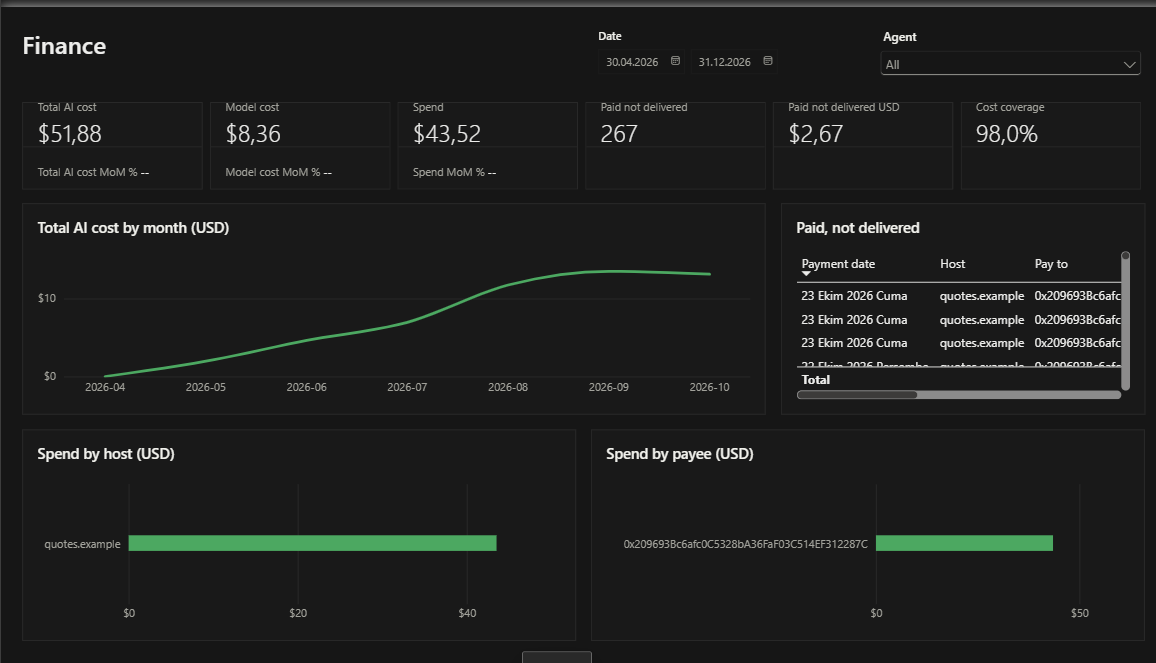
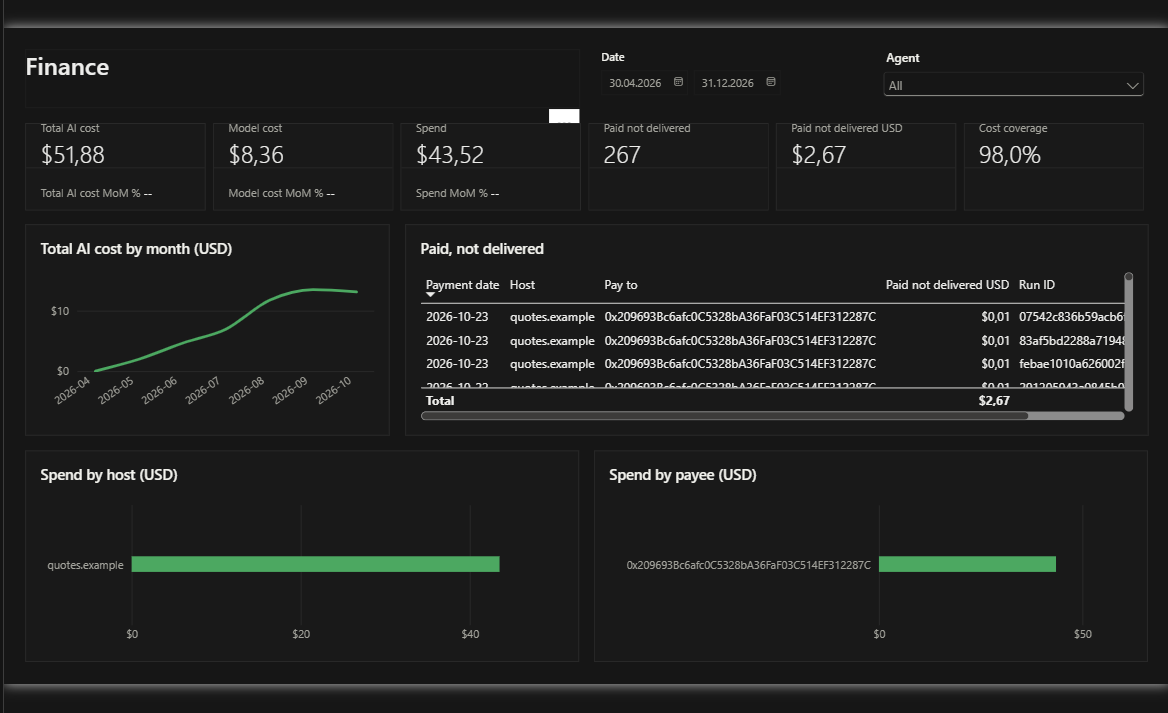
fix(bi): fit the agent incidents chart and tick proven criteria

diff --git a/bi/kpis.md b/bi/kpis.md
@@ -52,9 +52,9 @@ As anyone, I want the headline KPIs with their change from last month on one pag
 
 - **Page:** Overview. **KPIs:** K01, K02, K03, K05, K07, K09, K04, K23 to K27.
 - [x] Six cards show Run count, Model cost, Cost per run, Spend, Block rate and Incident rate.
-- [ ] With the date filter inside one month, each card shows its change from the same days one month earlier: in percent for counts and money, in percentage points for rates.
+- [x] With the date filter inside one month, each card shows its change from the same days one month earlier: in percent for counts and money, in percentage points for rates.
 - [x] With a date filter longer than a month, the change is blank, not a misleading number.
-- [ ] Run count and Model cost for a month equal that month's row in the "By month" DAX query.
+- [x] Run count and Model cost for a month equal that month's row in the "By month" DAX query.
 
 ### SEC-1. Guard rules ready to block
 
@@ -74,7 +74,7 @@ As a security lead, I want incidents by category, entry origin and entry agent o
 - [x] Incident count by category, where incidents without a verdict yet show as "unknown".
 - [x] Incident count by entry origin kind, such as web or email.
 - [x] Per agent, Incidents by entry agent next to Incident count (by the agent that did the damage).
-- [ ] The date filter changes all three, by the day each incident opened.
+- [x] The date filter changes all three, by the day each incident opened.
 
 ### SEC-3. Agents that act on untrusted content
 
@@ -102,7 +102,7 @@ As an engineering manager, I want latency p95 and failure rate per model, so tha
 - **Page:** Engineering. **KPIs:** K13, K18, with Model call count.
 - [x] A table has one row per model, with Model call count, Latency p95 ms and Model call error rate.
 - [x] Each model row shows its own values, not the same number on every row.
-- [ ] The date filter changes the table.
+- [x] The date filter changes the table.
 
 ### ENG-3. Effect of model changes
 
